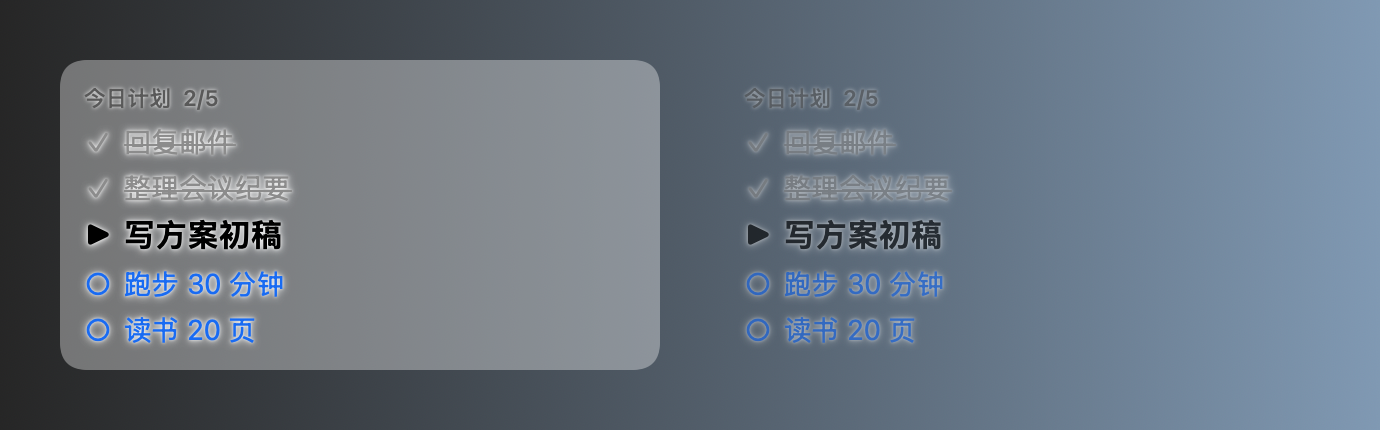
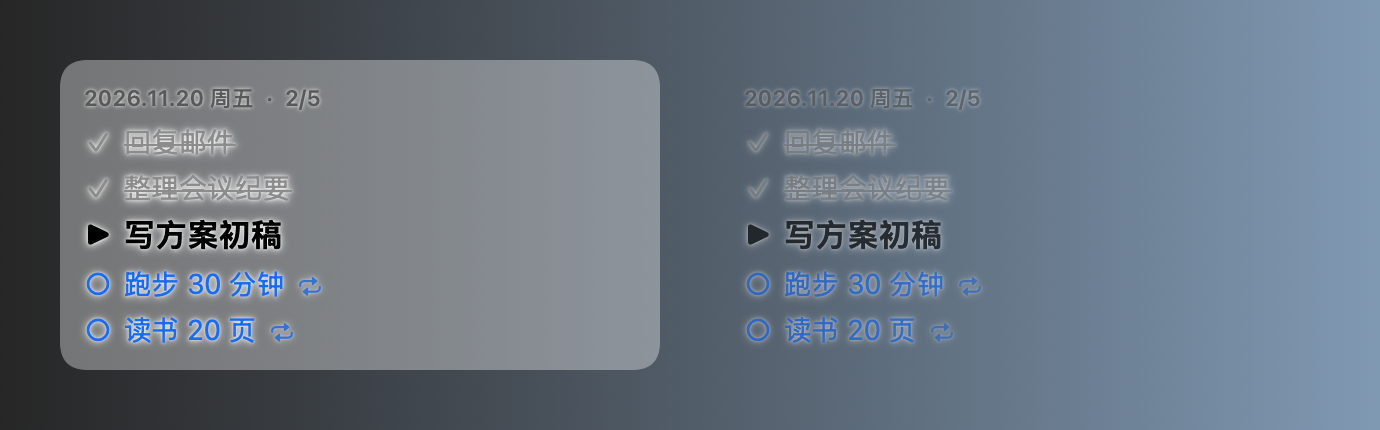
Daily plans with carry-over and repeating tasks; drop donation
- Each day gets its own list; header shows the date (2026.11.20 周五 · 2/5)
- On a new day: unfinished tasks carry over, done ones go to history,
  tasks marked 🔁 repeat daily come back reset to to-do
- Configurable day start hour, 14-day history in the menu bar
- Migrates v0.1 tasks.json into today's plan (old file kept as backup)
- Remove the coffee/donation menu item, README section and FUNDING.yml

diff --git a/Sources/Model.swift b/Sources/Model.swift
@@ -18,36 +18,152 @@ struct PlanTask: Identifiable, Codable, Equatable {
     var id = UUID()
     var title: String
     var status: TaskStatus = .todo
+    /// 每日重复：每天自动出现在新清单里，状态重置为未开始
+    var repeatDaily = false
+
+    init(title: String, status: TaskStatus = .todo, repeatDaily: Bool = false) {
+        self.title = title
+        self.status = status
+        self.repeatDaily = repeatDaily
+    }
+
+    enum CodingKeys: String, CodingKey { case id, title, status, repeatDaily }
+
+    // 兼容旧版数据：缺少的字段用默认值
+    init(from decoder: Decoder) throws {
+        let c = try decoder.container(keyedBy: CodingKeys.self)
+        id = try c.decodeIfPresent(UUID.self, forKey: .id) ?? UUID()
+        title = try c.decode(String.self, forKey: .title)
+        status = try c.decodeIfPresent(TaskStatus.self, forKey: .status) ?? .todo
+        repeatDaily = try c.decodeIfPresent(Bool.self, forKey: .repeatDaily) ?? false
+    }
 }
 
-/// 任务数据，保存在 ~/Library/Application Support/FloatPlan/tasks.json
+/// 某一天的清单
+struct DayPlan: Codable, Equatable {
+    var date: String          // yyyy-MM-dd
+    var tasks: [PlanTask]
+    var doneCount: Int { tasks.filter { $0.status == .done }.count }
+}
+
+/// 日期工具。“一天从几点开始”可设置，熬夜时清单不会在零点突然换掉
+enum DayClock {
+    static var startHour: Int {
+        get { UserDefaults.standard.object(forKey: "dayStartHour") as? Int ?? 0 }
+        set { UserDefaults.standard.set(newValue, forKey: "dayStartHour") }
+    }
+
+    private static let keyFormatter: DateFormatter = {
+        let f = DateFormatter()
+        f.calendar = Calendar(identifier: .gregorian)
+        f.locale = Locale(identifier: "en_US_POSIX")
+        f.timeZone = .current
+        f.dateFormat = "yyyy-MM-dd"
+        return f
+    }()
+
+    /// 某个时刻属于哪一天（扣掉“一天开始的小时数”）
+    static func key(for date: Date = Date()) -> String {
+        keyFormatter.timeZone = .current
+        return keyFormatter.string(from: date.addingTimeInterval(TimeInterval(-startHour * 3600)))
+    }
+
+    /// 2026.11.20 周五 / 11.20 周五
+    static func display(_ key: String, short: Bool = false) -> String {
+        guard let d = keyFormatter.date(from: key) else { return key }
+        let f = DateFormatter()
+        f.locale = Locale(identifier: "zh_CN")
+        f.dateFormat = short ? "M.d EEE" : "yyyy.MM.dd EEE"
+        return f.string(from: d)
+    }
+}
+
+/// 任务数据，保存在 ~/Library/Application Support/FloatPlan/plans.json
+/// （测试时可用环境变量 FLOATPLAN_DATA_DIR 指定别的目录）
 final class TaskStore: ObservableObject {
+    /// 今天的任务
     @Published var tasks: [PlanTask] = [] {
         didSet { save() }
     }
+    /// 今天是哪一天（yyyy-MM-dd）
+    @Published private(set) var day: String
+    /// 过去的清单，最新的在前
+    @Published private(set) var history: [DayPlan] = []
+
+    /// 切换到新的一天时回调，参数是带过来的任务数
+    var onNewDay: ((Int) -> Void)?
+
+    private struct SaveFile: Codable {
+        var version = 2
+        var today: DayPlan
+        var history: [DayPlan]
+    }
 
     private let fileURL: URL
+    private static let historyLimit = 365
 
     init() {
-        let dir = FileManager.default
-            .urls(for: .applicationSupportDirectory, in: .userDomainMask)[0]
-            .appendingPathComponent("FloatPlan", isDirectory: true)
+        let dir: URL
+        if let custom = ProcessInfo.processInfo.environment["FLOATPLAN_DATA_DIR"] {
+            dir = URL(fileURLWithPath: custom, isDirectory: true)
+        } else {
+            dir = FileManager.default
+                .urls(for: .applicationSupportDirectory, in: .userDomainMask)[0]
+                .appendingPathComponent("FloatPlan", isDirectory: true)
+        }
         try? FileManager.default.createDirectory(at: dir, withIntermediateDirectories: true)
-        fileURL = dir.appendingPathComponent("tasks.json")
+        fileURL = dir.appendingPathComponent("plans.json")
+        let legacyURL = dir.appendingPathComponent("tasks.json")
 
         if let data = try? Data(contentsOf: fileURL),
-           let saved = try? JSONDecoder().decode([PlanTask].self, from: data) {
-            tasks = saved
+           let file = try? JSONDecoder().decode(SaveFile.self, from: data) {
+            day = file.today.date
+            tasks = file.today.tasks
+            history = file.history
+        } else if let data = try? Data(contentsOf: legacyURL),
+                  let old = try? JSONDecoder().decode([PlanTask].self, from: data) {
+            // 从 v0.1 迁移：旧清单变成今天的清单（旧文件保留作备份）
+            day = DayClock.key()
+            tasks = old
         } else {
+            day = DayClock.key()
             tasks = [
                 PlanTask(title: "回复邮件", status: .done),
                 PlanTask(title: "整理会议纪要", status: .done),
                 PlanTask(title: "写方案初稿", status: .doing),
-                PlanTask(title: "跑步 30 分钟"),
-                PlanTask(title: "读书 20 页"),
+                PlanTask(title: "跑步 30 分钟", repeatDaily: true),
+                PlanTask(title: "读书 20 页", repeatDaily: true),
             ]
-            save()
         }
+        save()
+    }
+
+    /// 检查是否到了新的一天；是的话归档昨天，带上未完成和每日重复的任务
+    @discardableResult
+    func checkNewDay(now: Date = Date()) -> Bool {
+        let today = DayClock.key(for: now)
+        // 只往前走；改了系统时间或“一天开始时间”导致日期往回时不处理
+        guard today > day else { return false }
+
+        if !tasks.isEmpty {
+            history.removeAll { $0.date == day }
+            history.insert(DayPlan(date: day, tasks: tasks), at: 0)
+            if history.count > Self.historyLimit { history.removeLast(history.count - Self.historyLimit) }
+        }
+
+        let carried: [PlanTask] = tasks.compactMap { t in
+            if t.repeatDaily {
+                var n = t
+                n.status = .todo
+                return n
+            }
+            return t.status == .done ? nil : t
+        }
+
+        day = today
+        tasks = carried          // 触发保存
+        onNewDay?(carried.count)
+        return true
     }
 
     /// 当前任务：第一条“进行中”，没有的话就是第一条“未开始”
@@ -67,6 +183,10 @@ final class TaskStore: ObservableObject {
         tasks.removeAll { $0.id == id }
     }
 
+    func toggleRepeat(_ id: UUID) {
+        if let i = tasks.firstIndex(where: { $0.id == id }) { tasks[i].repeatDaily.toggle() }
+    }
+
     func move(_ id: UUID, by offset: Int) {
         guard let i = tasks.firstIndex(where: { $0.id == id }) else { return }
         let j = i + offset
@@ -80,9 +200,10 @@ final class TaskStore: ObservableObject {
     }
 
     private func save() {
+        let file = SaveFile(today: DayPlan(date: day, tasks: tasks), history: history)
         let enc = JSONEncoder()
-        enc.outputFormatting = [.prettyPrinted]
-        if let data = try? enc.encode(tasks) {
+        enc.outputFormatting = [.prettyPrinted, .sortedKeys]
+        if let data = try? enc.encode(file) {
             try? data.write(to: fileURL, options: .atomic)
         }
     }

diff --git a/Sources/App.swift b/Sources/App.swift
@@ -34,7 +34,27 @@ final class AppDelegate: NSObject, NSApplicationDelegate, NSWindowDelegate, NSMe
         setupStatusItem()
         registerHotKey()
         scheduleReminder()
+        setupDayRollover()
         UNUserNotificationCenter.current().requestAuthorization(options: [.alert, .sound]) { _, _ in }
+    }
+
+    // MARK: - 按天切换
+
+    private var dayTimer: Timer?
+
+    private func setupDayRollover() {
+        store.onNewDay = { [weak self] carried in
+            self?.showDanmaku(carried > 0 ? "🌅 新的一天！带过来 \(carried) 项任务" : "🌅 新的一天！")
+        }
+        store.checkNewDay()   // 启动时（比如隔天才开电脑）
+
+        // 每分钟检查一次；从睡眠唤醒时也检查
+        let t = Timer(timeInterval: 60, repeats: true) { [weak self] _ in self?.store.checkNewDay() }
+        RunLoop.main.add(t, forMode: .common)
+        dayTimer = t
+        NSWorkspace.shared.notificationCenter.addObserver(
+            forName: NSWorkspace.didWakeNotification, object: nil, queue: .main
+        ) { [weak self] _ in self?.store.checkNewDay() }
     }
 
     // MARK: - 悬浮层
@@ -178,10 +198,21 @@ final class AppDelegate: NSObject, NSApplicationDelegate, NSWindowDelegate, NSMe
         updateSliderLabels()
         menu.addItem(txItem)
 
+        let dayStart = NSMenuItem(title: "新的一天开始于", action: nil, keyEquivalent: "")
+        let dSub = NSMenu()
+        for h in [0, 3, 4, 5, 6] {
+            let it = NSMenuItem(title: h == 0 ? "零点" : "凌晨 \(h) 点", action: #selector(setDayStart(_:)), keyEquivalent: "")
+            it.target = self
+            it.tag = h
+            it.state = (h == DayClock.startHour) ? .on : .off
+            dSub.addItem(it)
+        }
+        dayStart.submenu = dSub
+        menu.addItem(dayStart)
+
+        menu.addItem(historyItem())
+
         menu.addItem(.separator())
-        let coffee = NSMenuItem(title: "☕ 请作者喝杯咖啡", action: #selector(openDonate), keyEquivalent: "")
-        coffee.target = self
-        menu.addItem(coffee)
         let gh = NSMenuItem(title: "GitHub 主页 / 反馈问题", action: #selector(openRepo), keyEquivalent: "")
         gh.target = self
         menu.addItem(gh)
@@ -192,9 +223,34 @@ final class AppDelegate: NSObject, NSApplicationDelegate, NSWindowDelegate, NSMe
 
     @objc private func setReminder(_ sender: NSMenuItem) { reminderMinutes = sender.tag }
 
-    // 链接统一放在 Links.swift，改用户名只需改那一个文件
-    @objc private func openDonate() { if let u = URL(string: Links.donate) { NSWorkspace.shared.open(u) } }
     @objc private func openRepo() { if let u = URL(string: Links.repo) { NSWorkspace.shared.open(u) } }
+
+    @objc private func setDayStart(_ sender: NSMenuItem) {
+        DayClock.startHour = sender.tag
+        store.checkNewDay()
+    }
+
+    /// 历史记录：最近 14 天，每天一个子菜单列出当天的任务
+    private func historyItem() -> NSMenuItem {
+        let item = NSMenuItem(title: "历史记录", action: nil, keyEquivalent: "")
+        let sub = NSMenu()
+        if store.history.isEmpty {
+            sub.addItem(NSMenuItem(title: "还没有历史记录（明天开始会有）", action: nil, keyEquivalent: ""))
+        }
+        for d in store.history.prefix(14) {
+            let dayItem = NSMenuItem(
+                title: "\(DayClock.display(d.date, short: true))    完成 \(d.doneCount)/\(d.tasks.count)",
+                action: nil, keyEquivalent: "")
+            let tasksMenu = NSMenu()
+            for t in d.tasks {
+                tasksMenu.addItem(NSMenuItem(title: "\(statusSymbol(t.status))  \(t.title)", action: nil, keyEquivalent: ""))
+            }
+            dayItem.submenu = tasksMenu
+            sub.addItem(dayItem)
+        }
+        item.submenu = sub
+        return item
+    }
 
     // MARK: - 透明度滑块（嵌在菜单里，拖动时悬浮层实时变化）
 

diff --git a/Sources/OverlayView.swift b/Sources/OverlayView.swift
@@ -49,7 +49,7 @@ struct OverlayView: View {
     @ViewBuilder private var header: some View {
         if ui.editing {
             HStack {
-                Text("⠿ 拖动这里移动位置")
+                Text("⠿ \(DayClock.display(store.day))  ·  拖动移动位置")
                     .font(.system(size: 11))
                     .foregroundColor(.secondary)
                     .frame(maxWidth: .infinity, alignment: .leading)
@@ -58,7 +58,7 @@ struct OverlayView: View {
                     .keyboardShortcut(.defaultAction)
             }
         } else {
-            Text("今日计划  \(store.doneCount)/\(store.tasks.count)")
+            Text("\(DayClock.display(store.day))  ·  \(store.doneCount)/\(store.tasks.count)")
                 .font(.system(size: 11, weight: .semibold))
                 .foregroundColor(Color(white: 0.35))
                 .shadow(color: .white, radius: 1)
@@ -75,6 +75,11 @@ struct OverlayView: View {
             Text(task.title)
                 .strikethrough(task.status == .done)
                 .fixedSize(horizontal: false, vertical: true)
+            if task.repeatDaily {
+                Image(systemName: "repeat")
+                    .font(.system(size: 10, weight: .semibold))
+                    .opacity(0.7)
+            }
         }
         .font(.system(size: task.status == .doing ? 16 : 14,
                       weight: task.status == .doing ? .bold : .regular))
@@ -104,6 +109,14 @@ struct OverlayView: View {
                 .font(.system(size: 14, weight: task.status == .doing ? .bold : .regular))
                 .foregroundColor(statusColor(task.status))
 
+            Button { store.toggleRepeat(task.id) } label: {
+                Image(systemName: "repeat")
+                    .font(.system(size: 11, weight: .semibold))
+                    .foregroundColor(task.repeatDaily ? statusColor(.todo) : Color.gray.opacity(0.35))
+            }
+            .buttonStyle(.plain)
+            .help(task.repeatDaily ? "每日重复：已开启" : "设为每日重复（每天自动出现）")
+
             iconButton("chevron.up") { store.move(task.id, by: -1) }
             iconButton("chevron.down") { store.move(task.id, by: 1) }
             iconButton("xmark.circle.fill") { store.remove(task.id) }
@@ -126,7 +139,7 @@ struct OverlayView: View {
     }
 
     private var hint: some View {
-        Text("⌥⌘P 退出编辑 · 点左侧图标切换状态")
+        Text("⌥⌘P 退出编辑 · 点左侧图标切换状态 · 🔁 每日重复")
             .font(.system(size: 10))
             .foregroundColor(.secondary)
             .padding(.top, 2)

diff --git a/Sources/Links.swift b/Sources/Links.swift
@@ -3,10 +3,4 @@ import Foundation
 /// 对外链接，集中放在这里
 enum Links {
     static let repo = "https://github.com/hychen11/FloatPlan"
-
-    /// 打赏：跳到 README 的「☕ 请作者喝杯咖啡」一节（中文锚点需要百分号编码）
-    static let donate: String = {
-        let anchor = "-请作者喝杯咖啡".addingPercentEncoding(withAllowedCharacters: .urlFragmentAllowed) ?? ""
-        return repo + "#" + anchor
-    }()
 }
